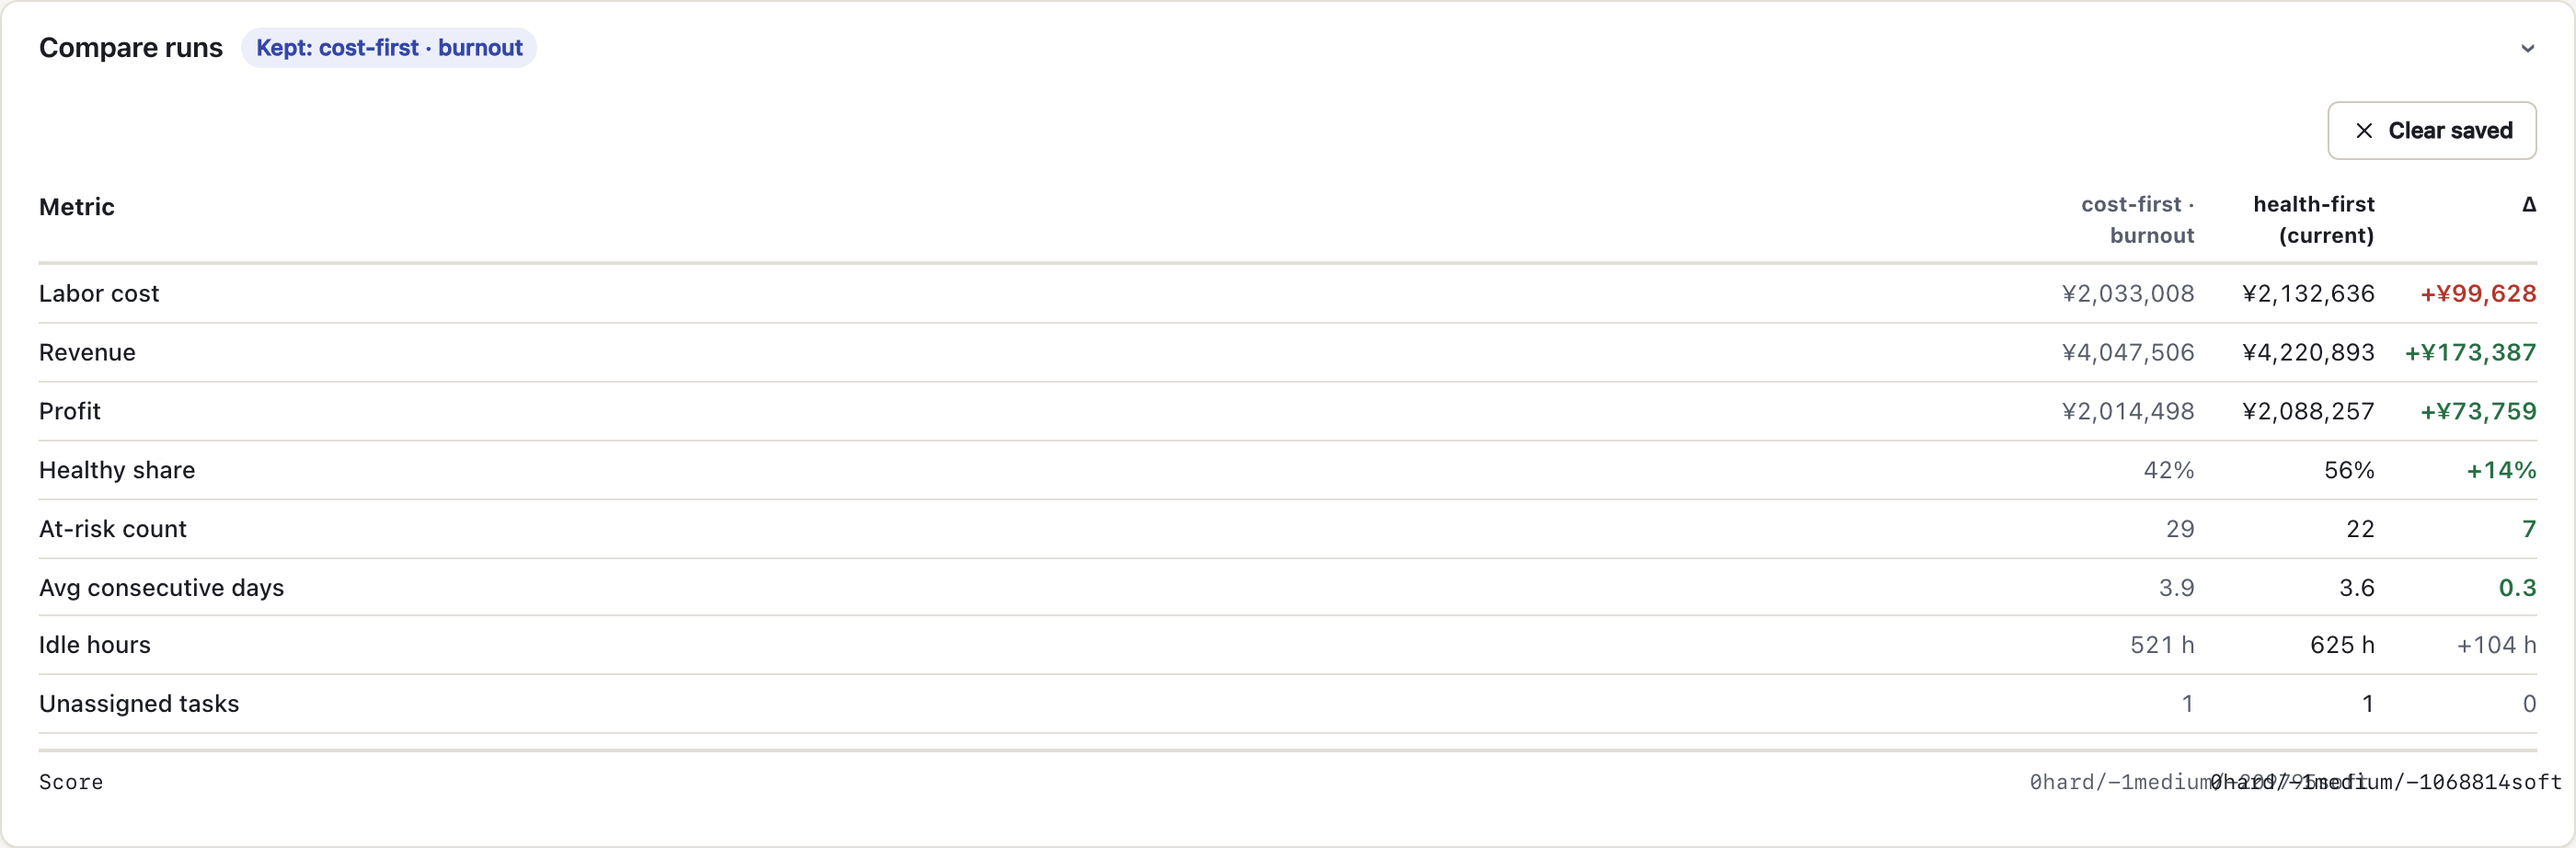
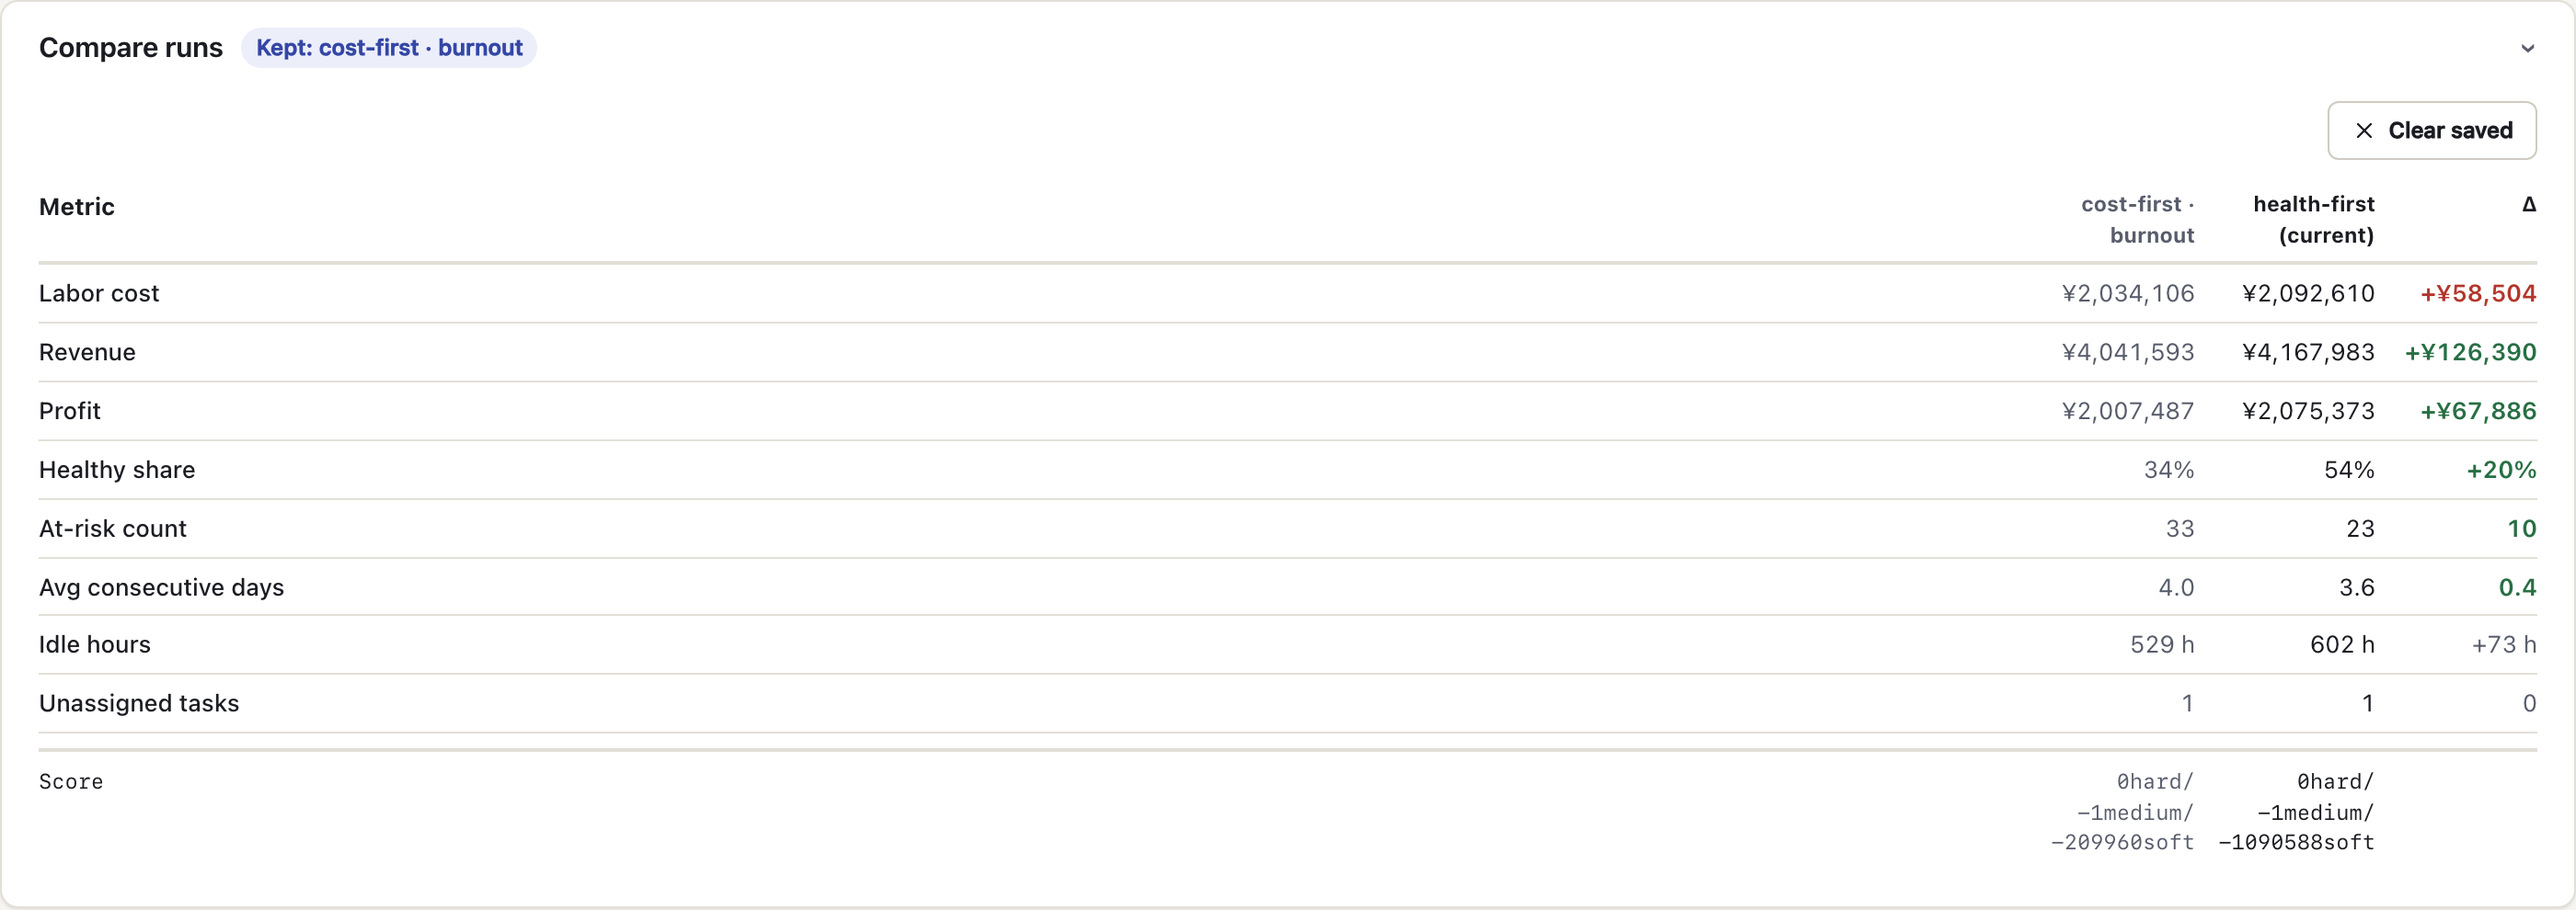
docs(readme): credit Risako for the karoshi idea and link the PRD material
The credits named Risako but not what she contributed: the problem framing
(work-life balance in Japan, its health cost, karoshi) that became the PRD.
Also refresh the compare-runs shot taken with the score-overlap fix.

diff --git a/README.md b/README.md
@@ -14,10 +14,10 @@ between the two is the monetary value of protecting your staff.
 <p align="center">
   <a href="docs/screenshots/02-dashboard/04-compare-runs.png">
     <img src="docs/screenshots/02-dashboard/04-compare-runs.png" width="90%"
-         alt="Compare runs: health-first protects 7 more people than cost-first for about 99,600 yen more labor cost">
+         alt="Compare runs: health-first puts 10 fewer people at risk than cost-first for about 58,500 yen more labor cost">
   </a>
   <br>
-  <sub>Same <code>burnout</code> week, two plans: <b>health-first</b> puts 7 fewer people at risk for ~¥100k more payroll.</sub>
+  <sub>Same <code>burnout</code> week, two plans: <b>health-first</b> puts 10 fewer people at risk for ~¥59k more payroll.</sub>
 </p>
 
 ## Contents
@@ -514,6 +514,25 @@ The default is 30 seconds; the maximum accepted value is 60.
 
 Built at Hack for Humanity London 2026-10-29 by Mani Sarkar ([@neomatrix369](https://github.com/neomatrix369))
 in collaboration with Risako ([@inforisako](https://github.com/inforisako)).
+
+**The idea came from Risako.** She was instrumental in framing the problem: work-life balance in Japan, how
+long hours and long runs of working days harm people's health, and how at the extreme they lead to
+**karoshi** (過労死, "death from overwork"). Her synopsis became the brief for this build:
+
+> Managers, HR staff and executives in Japanese companies want an AI-assisted weekly plan that prevents
+> overwork. Employee health and safety come before labor cost and profit: the company accepts lower profit
+> for a healthier workforce, and health and profit are reported side by side so the trade-off stays visible.
+> The long-term aim is longevity — people stay for many years instead of falling ill, coming in less often
+> or retiring early.
+
+The product material behind the build lives in [`docs/plan/`](docs/plan/):
+
+| Document | What it holds |
+|---|---|
+| [`work-scheduling-prd.md`](docs/plan/work-scheduling-prd.md) | The PRD: problem summary, planning entities, constraints, KPIs and users |
+| [`clarifying-questions.md`](docs/plan/clarifying-questions.md) | Open questions about the PRD and the answers we settled on |
+| [`claude-code-prompt.md`](docs/plan/claude-code-prompt.md) | The build spec, including the deliberate simplifications (it wins where it differs from the PRD) |
+| [`kickoff-prompt.md`](docs/plan/kickoff-prompt.md) | The phase-by-phase build plan with checkpoints |
 
 The model is derived from
 [TimefoldAI/timefold-quickstarts](https://github.com/TimefoldAI/timefold-quickstarts) (Apache-2.0),

diff --git a/docs/screenshots/README.md b/docs/screenshots/README.md
@@ -37,7 +37,7 @@ The main flow: pick a scenario and preset, solve, then compare the cheap plan wi
 
 ### Compare runs — what health protection costs
 
-![Compare panel: health-first protects 7 more people than cost-first for about 99,600 yen more labor cost](02-dashboard/04-compare-runs.png)
+![Compare panel: health-first puts 10 fewer people at risk than cost-first for about 58,500 yen more labor cost](02-dashboard/04-compare-runs.png)
 
 ### Solver replay — how the plan improved step by step
 
